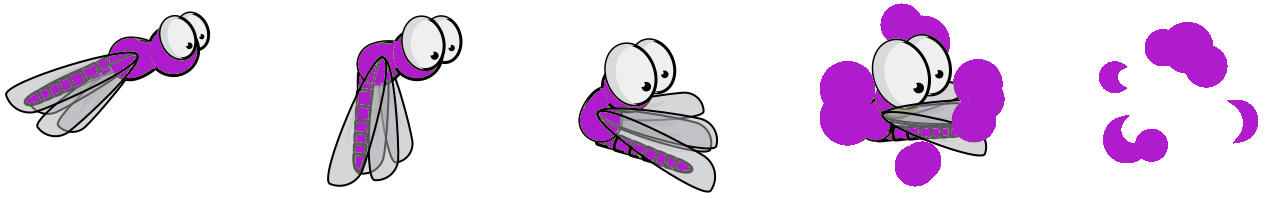
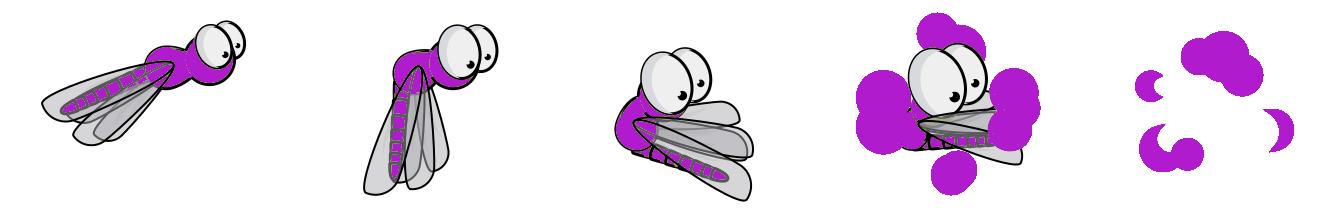
Completed dragonfly animation

diff --git a/scripts/game.js b/scripts/game.js
@@ -28,7 +28,7 @@ var moreTrees = 0;
 function preload() {
     this.load.image('background', 'assets/images/background.png');
     this.load.spritesheet('dragonF_fly', 'assets/images/dragonF_flying.png', { frameWidth: 243, frameHeight: 195 });
-    this.load.spritesheet('dragonF_explode', 'assets/images/dragonF_explode.png', { frameWidth: 243, frameHeight: 195 });
+    this.load.spritesheet('dragonF_explode', 'assets/images/dragonF_explode.png', { frameWidth: 378, frameHeight: 211 });
     this.load.image('tree', 'assets/images/tree2_psc.png');
 }
 
@@ -52,8 +52,8 @@ function create() {
     this.anims.create({
         key: 'dragonF_explode',
         frames: this.anims.generateFrameNumbers('dragonF_explode'),
-        frameRate: 15,
-        repeat: -1
+        frameRate: 10,
+        repeat: 0,
     });
     dragonF.play('dragonF_fly');
 
@@ -79,9 +79,8 @@ function addTree(x, y) {
 
 function hitObstacle(actor, obstacle) {
     dragonF.play('dragonF_explode');
-    //dragonF.setTint(0xff0000);
+    dragonF.setTint(0xff0000);
     this.cameras.main.shake(500);
-    dragonF.anims.stop();
     this.physics.pause();
     trees.clear();
 }
